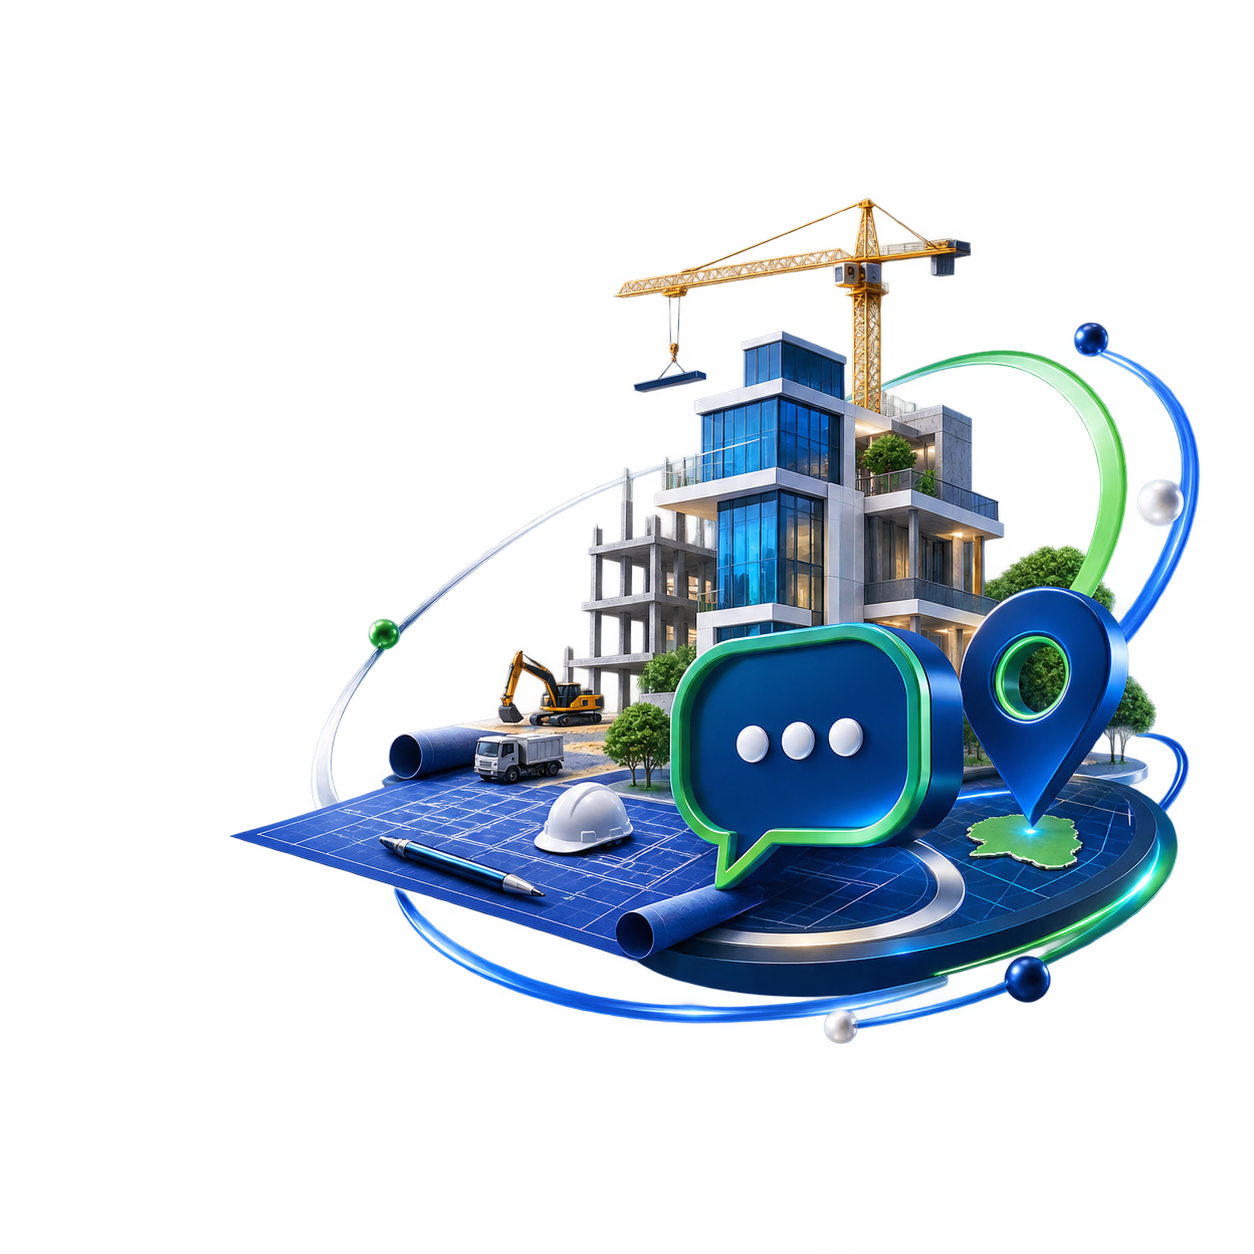
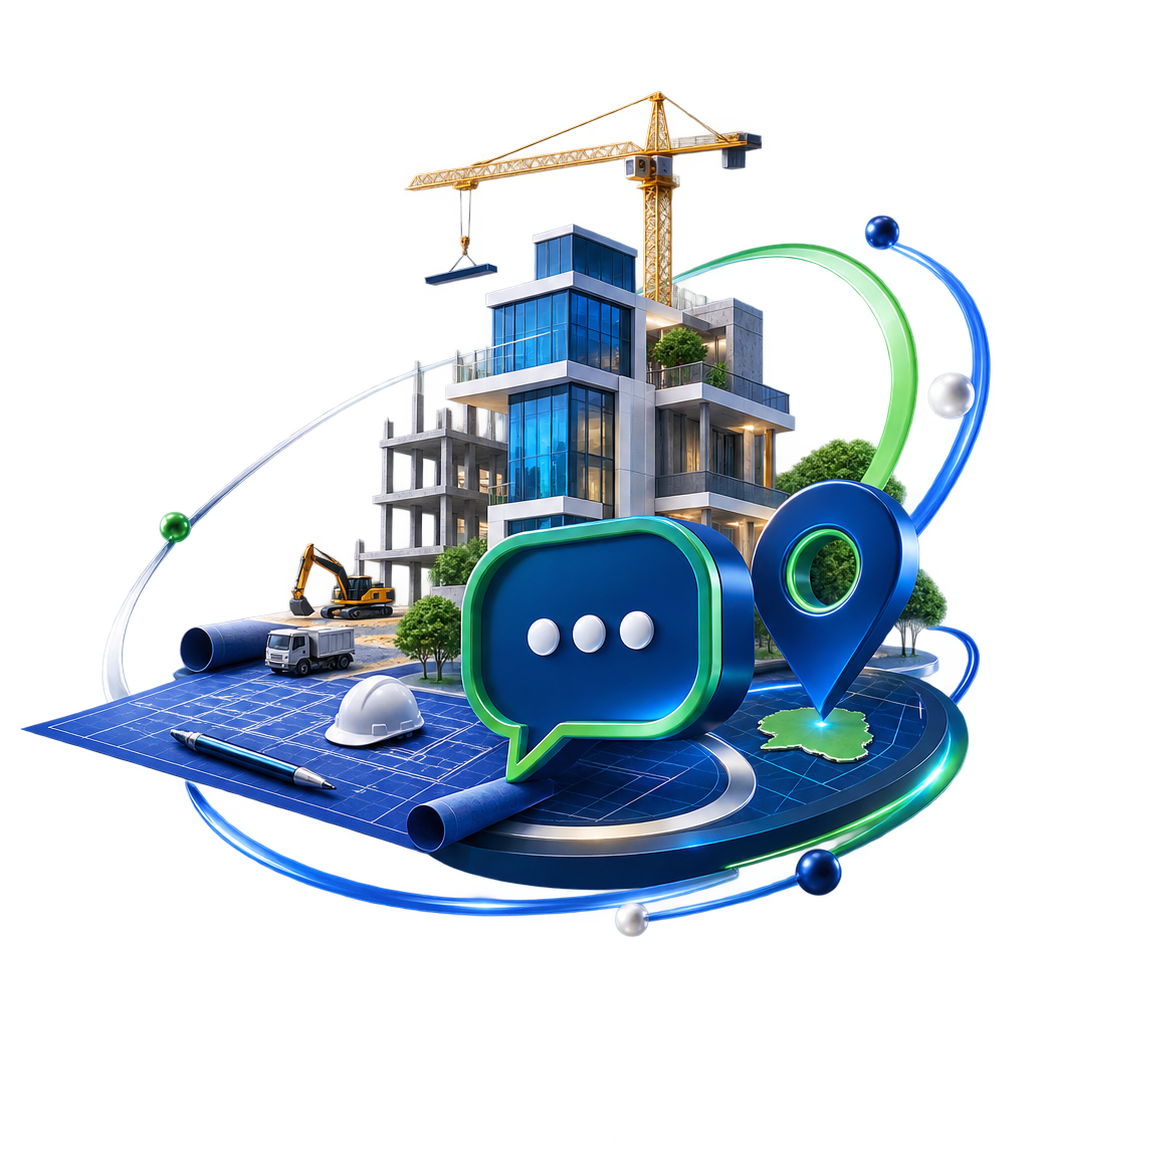
feat:centered image and removed one

diff --git a/src/app/globals.css b/src/app/globals.css
@@ -3321,8 +3321,9 @@ button {
     display: flex;
     align-items: center;
     justify-content: center;
-    margin: 18px 0 0 0;
+    margin: 24px auto 0 auto;
     padding: 0;
+    text-align: center;
   }
 
   .chic-asset-card {
@@ -3332,16 +3333,16 @@ button {
     align-items: center;
     justify-content: center;
     width: 100%;
-    max-width: 320px;
+    max-width: 100%;
     margin: 0 auto;
     text-align: center;
   }
 
   .chic-asset-img {
-    width: 100%;
-    max-width: 290px;
+    width: auto;
+    max-width: min(86vw, 300px);
     height: auto;
-    max-height: 250px;
+    max-height: 260px;
     margin: 0 auto;
     display: block;
     object-fit: contain;
@@ -3349,8 +3350,11 @@ button {
   }
 
   .chic-asset-glow {
-    width: 260px;
-    height: 180px;
+    width: 240px;
+    height: 160px;
+    top: 50%;
+    left: 50%;
+    transform: translate(-50%, -50%);
     filter: blur(24px);
   }
 }
@@ -5693,14 +5697,16 @@ button {
   display: block;
 }
 
-@media (max-width: 768px) {
-  .partners-heading-right {
-    align-items: flex-start;
+@media (max-width: 900px) {
+  .partners-handshake-media {
+    display: none !important;
   }
 
-  .partners-handshake-media {
-    width: 220px;
-    margin: 0 0 4px 0;
+  .partners-heading-right {
+    max-width: 100%;
+    width: 100%;
+    gap: 0;
+    align-items: flex-start;
   }
 }
 
